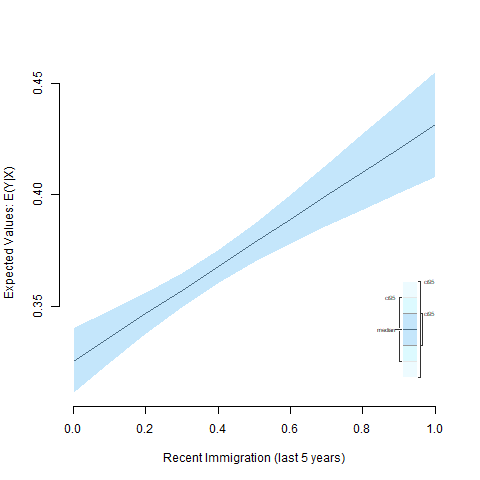
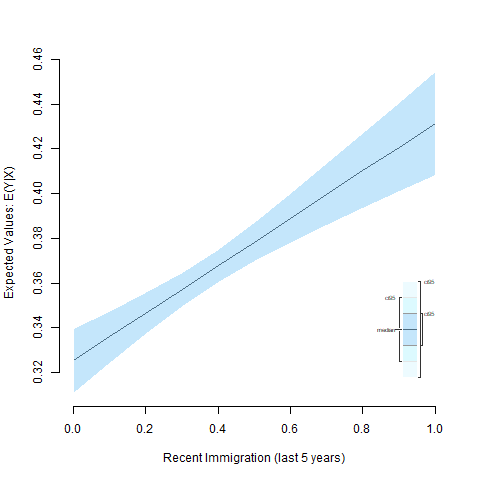
some minor changes

diff --git a/day2.html b/day2.html
@@ -545,10 +545,10 @@ summary(s.out)</code></pre>
 ##  -----
 ## ev
 ##        mean         sd       50%      2.5%     97.5%
-## 1 0.6867192 0.01266871 0.6867097 0.6613431 0.7109674
+## 1 0.6864391 0.01244475 0.6864642 0.6615197 0.7106051
 ## pv
-##          mean        sd       50%      2.5%    97.5%
-## [1,] 0.679359 0.1817445 0.6818691 0.3299875 1.030201
+##           mean        sd       50%      2.5%    97.5%
+## [1,] 0.6808013 0.1699045 0.6737728 0.3374544 1.014135
 ## 
 ## 
 ## [1] 0.3
@@ -557,11 +557,11 @@ summary(s.out)</code></pre>
 ##  sim range :
 ##  -----
 ## ev
-##        mean          sd       50%      2.5%     97.5%
-## 1 0.5580025 0.008276824 0.5579352 0.5424539 0.5742976
+##        mean          sd       50%     2.5%     97.5%
+## 1 0.5579317 0.008134946 0.5580608 0.541315 0.5739367
 ## pv
 ##           mean        sd       50%      2.5%     97.5%
-## [1,] 0.5672704 0.1750699 0.5623689 0.2409463 0.9399848
+## [1,] 0.5500701 0.1740766 0.5512959 0.2061867 0.8755901
 ## 
 ## 
 ## [1] 0.6
@@ -571,10 +571,10 @@ summary(s.out)</code></pre>
 ##  -----
 ## ev
 ##        mean          sd       50%      2.5%     97.5%
-## 1 0.4292859 0.004698138 0.4294066 0.4199715 0.4381568
+## 1 0.4294243 0.004713829 0.4296408 0.4200583 0.4392601
 ## pv
-##           mean        sd       50%       2.5%    97.5%
-## [1,] 0.4208992 0.1708662 0.4158372 0.09415001 0.763173
+##           mean        sd       50%       2.5%     97.5%
+## [1,] 0.4346916 0.1723811 0.4308855 0.09435698 0.7754554
 ## 
 ## 
 ## [1] 0.9
@@ -583,11 +583,11 @@ summary(s.out)</code></pre>
 ##  sim range :
 ##  -----
 ## ev
-##        mean          sd       50%      2.5%     97.5%
-## 1 0.3005692 0.004603942 0.3005147 0.2915094 0.3095358
+##        mean         sd       50%      2.5%     97.5%
+## 1 0.3009169 0.00479587 0.3009246 0.2916683 0.3096568
 ## pv
 ##           mean        sd       50%        2.5%     97.5%
-## [1,] 0.2994047 0.1761053 0.2950916 -0.04769425 0.6373679</code></pre>
+## [1,] 0.2971803 0.1749133 0.3001272 -0.05827054 0.6336361</code></pre>
 <pre class="r"><code>ci.plot(s.out, xlab = &quot;Majority population (%)&quot;, ci = 95)</code></pre>
 <p><img src="day2_files/figure-html/unnamed-chunk-21-1.png" width="672" /></p>
 </div>

diff --git a/day1.html b/day1.html
@@ -577,6 +577,29 @@ student_data$racial_group &lt;- factor(student_data$race, labels = c(&quot;Black
 ## # ... with 3 more variables: gender &lt;fctr&gt;, socioeconomic_status &lt;fctr&gt;,
 ## #   racial_group &lt;fctr&gt;</code></pre>
 </div>
+<div id="exercises" class="section level3">
+<h3>Exercises</h3>
+<ol style="list-style-type: decimal">
+<li>Close and then re-open RStudio.</li>
+<li>Clear your workspace.</li>
+<li>Check your working directory in R.</li>
+<li>Change your working directory to your folder <code>StatisticalLearning</code>.</li>
+<li>Create a vector with all even elements between 1 and 11 in ascending order.</li>
+<li>Delete the last element from your vector.</li>
+<li>Create a square matrix with 3 rows and 3 columns.
+<ul>
+<li>Row 1: smallest positive integers divisible by 3, in ascending order.</li>
+<li>Row 2: smallest prime numbers, in ascending order.</li>
+<li>Row 3: greatest mutiples of 6, smaller than 60, in descending order.</li>
+</ul></li>
+<li>Change the elements on the main diagonal to 1â€™s.</li>
+<li>Load â€œpolity.csvâ€ and call your data frame â€œdfâ€.</li>
+<li>Pick the year 1991 and drop all observations from the data set that are not from 1991.</li>
+<li>Summarize the variable democ (stands for democracy) and produce a frequency table.</li>
+<li>Delete all observations from the data where <code>democ</code> <span class="math inline">\(&lt; 0\)</span>.</li>
+<li>Print a histogram of democracy â€“ type <code>?hist</code>.</li>
+</ol>
+</div>
 </div>
 
 

diff --git a/solutions2.html b/solutions2.html
@@ -236,7 +236,7 @@ com &lt;- read.csv(&quot;C:/Users/phili/Dropbox/Essex 2017 ML/Day 2/Lab/communit
 # load data set on employment
 empl &lt;- read.csv(&quot;http://uclspp.github.io/PUBLG100/data/communities_employment.csv&quot;)
 
-## merge data sets
+# merge data sets
 # com and empl
 com &lt;- merge(com, empl, by = c(&quot;state&quot;, &quot;communityname&quot;))
 # merge immi to the data sets
